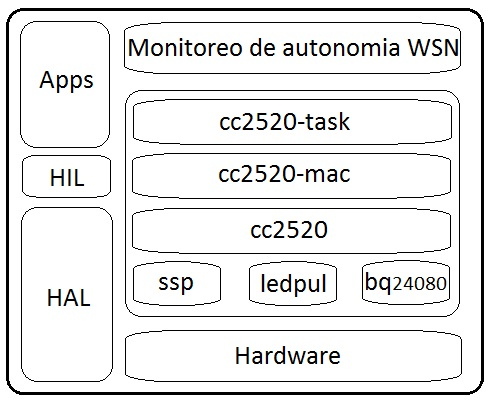
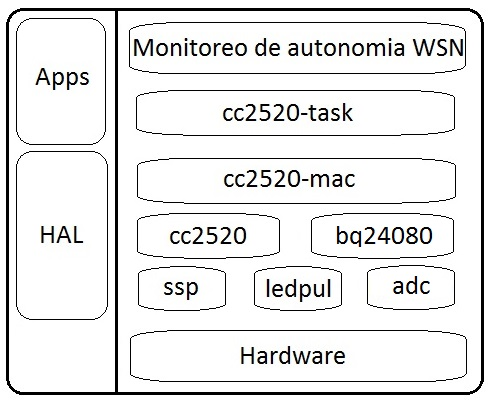
completando el capitulo 3

diff --git a/Chapters/Chapter3.tex b/Chapters/Chapter3.tex
@@ -93,7 +93,7 @@ La curva de la figura \ref{fig:curva}, muestra la corriente máxima de cortocirc
 %	SUBSECTION 2
 %-----------------------------------
 \clearpage
-\subsection{Extensión de Circuito Cargador}
+\subsection{Circuito de Extensión Cargador}
 \label{subsec:extensión}
 Entre las interfaces para el usuario del nodo \textit{Mote LSE} esta el puerto USB, el cual alimenta al circuito de control de carga \textit{bq24080 1-A} con 5V(DC) a través de un conector USB micro-B. Este circuito es el empleado para la carga de la batería de Li-ion de 3.7V y 900mAh.
 
@@ -103,7 +103,7 @@ Es por esto que es necesario emplear una etapa reguladora de voltaje a la salida
 \begin{figure}[h!]
 	\centering
     \includegraphics[width=1\textwidth]{./Figures/circuito.jpg}
-    	\caption{Diseño de extensión de circuito cargador.}
+    	\caption{Diseño de Circuito de Extensión Cargador.}
 	\label{fig:circuito}
 \end{figure}
 
@@ -116,7 +116,16 @@ Un diseño de circuito alternativo, de montaje superficial, puede hacerse emplea
 %-----------------------------------
 \subsection{Diagrama de Conexión}
 \label{subsec:conexión}
-El siguiente diagrama muestra la conexión entre la extensión del circuito cargador y el nodo \textit{Mote LSE}.
+El siguiente diagrama muestra la conexión entre la Circuito de Extensión Cargador 
+(CEC) y el nodo \textit{Mote LSE}, así como la conexión entre el usuario y los nodos remotos. Para el detalle de la conexión del LPC-LINK y el mote, ver el Apéndice \ref{AppendixB}.
+
+\vspace{30px}
+\begin{figure}[h!]
+	\centering
+    \includegraphics[width=0.9\textwidth]{./Figures/conex.png}
+    	\caption{Diagrama de Conexión.}
+	\label{fig:conex}
+\end{figure}
 
 %----------------------------------------------------------------------------------------
 %	SECTION 2
@@ -138,6 +147,13 @@ El modelo propuesto consiste en una arquitectura de capas (Ver figura \ref{fig:c
 	\label{fig:capas}
 \end{figure}
 
+%-----------------------------------
+%	SUBSECTION 1
+%-----------------------------------
+\subsection{Hardware}
+\label{subsec:hardlayer} 
+
+Esta capa contiene la libreria de Cortex ARM, \textit{Cortex Microcontroller Software Interface Standard} \citep{arm} (CMSISv2p00 LPC13xx) :Implementa las funciones de acceso al LPC1343.	
 
 %-----------------------------------
 %	SUBSECTION 1
@@ -149,9 +165,12 @@ La capa de abstracción de hardware (en inglés, Hardware Abstraction Layer o HA
 
 \noindent La HAL esta compuesta por:
 \begin{itemize}
-\item Hardware:
-	\begin{itemize}
-	\item Libreria de Cortex ARM, \textit{Cortex Microcontroller Software Interface Standard} \citep{arm} (CMSISv2p00 LPC13xx) :Implementa las funciones de acceso al LPC1343.	
+\item LPC1343 Drivers:
+\begin{itemize}
+	\item ssp.c : Implementa las interfaz entre el host y el cc2520.
+	\item ssp.h : Contiene todas las macro que controlan la SPI.
+	\item adc.c : Implementa las funciones de inicialización y lectura del ADC.
+	\item adc.h : Contiene las macro que controlan el ADC.
 	\end{itemize}
 \item Board Drivers:
 	\begin{itemize}
@@ -180,19 +199,19 @@ La capa de abstracción de hardware (en inglés, Hardware Abstraction Layer o HA
 %-----------------------------------
 %	SUBSECTION 2
 %-----------------------------------
-\subsection{APP}
-\label{subsec:app}
-La capa APP	o de aplicación esta compuesta por:
+\subsection{APPS}
+\label{subsec:apps}
+La capa APPS	o de aplicaciones esta compuesta por:
 \begin{itemize}
 \item cc2520Task:
 	\begin{itemize}
-	\item cc2520-task.c : Esta función arma una trama de tipo DATA (formada con los parámetros relativos al 802.15.4 de cc2520-mac.c) y la guarda en el buffer de salida de cc2520. Los parámetros de entrada son la dirección de destino y el payload que contiene todos las mediciones y estados de alarmas. y con la funcion ccTx del cc2520-mac, que se fija en el buffer de tx si contiene un frame y lo transmite. Luego en ccTask implementa una FSM con los estados de enviar, recibir y esperar.
-	\item cc2520-task.h : Se incluyeron los estados de operación referentes al transceiver (idle, dataRequest, waitingData, etc)y la función FrameForming para ser utilizada por las capas de aplicación superiores, se define la variable MAXRETRIES que establece el máximo de retransmisiones de una trama y la variables de direccionamiento.
+	\item cc2520-task.c : Contiene la funcion framForming, que arma una trama de tipo DATA (formada con los parámetros relativos al 802.15.4 de cc2520-mac.c) y la guarda en el buffer de salida de cc2520. Los parámetros de entrada son la dirección de destino y el payload. Implementa las funciones de enviar y recibir datos.
+	\item cc2520-task.h : Se incluyeron las funciones de operación referentes al transceiver (idle, sendingData, waitingAck, etc)y la función FrameForming para ser utilizada por las capas de aplicación superiores, se define la variable MAXRETRIES que establece el máximo de retransmisiones de una trama y las variables de direccionamiento.
 	\end{itemize}
 \item monitoreoWsn:	
 	\begin{itemize}
-	\item monitoreoWsn.c : Implementa las operaciones de medición referentes a cada modo de operación.
-	\item monitoreoWsn.h : Define las macros referentes a las mediciones.
+	\item main.c : Implementa las operaciones de medición referentes a cada modo de operación. Hace la lectura del ADC0 y ADC1 para la medición del voltaje de la batería y la temperatura ambiente respectivamente. Con la función frameForming de cc2520-task.c arma la trama con el payload que contiene todos las mediciones y estados de alarmas, y asigna la dirección del coordinador como dirección destino. Luego con la funcion ccTx del cc2520-mac, transmite el frame formado que esta contenido en el buffer de tx.
+	\item include.h : Define el tipo de variables e incluye todos los \textit{header files} que utiliza de las demás capas de abstracción.
 	\end{itemize}
 \end{itemize}
 %----------------------------------------------------------------------------------------
@@ -202,7 +221,7 @@ La capa APP	o de aplicación esta compuesta por:
 \label{sec:firm}
 El software embebido, llamado firmware en adelante, fue implementado en lenguaje de programación C y assembler. Éste implementa todas las funciones descriptas en la sección anterior.
  
-Como punto de partida, se tomó el \textit{workspace} del Microstack 802.15.4 de la clase práctica de la asignatura Protocolos de Comunicación del Ing. Pablo Ridolfi y se realizaron las modificaciones a nivel de HAL para soportar el circuito controlador de carga bq24080. Ver \ref{AppendixC}.
+Como punto de partida, se tomó el \textit{workspace} del Microstack 802.15.4 de la clase práctica de la asignatura Protocolos de Comunicación del Ing. Pablo Ridolfi y se realizaron las modificaciones en la libreria del Hardware y a nivel de HAL, para soportar el circuito controlador de carga bq24080 (Ver tabla \ref{tab:bq}) y el ADC, y así luego implementar las Apps sobre este Microstack.
 
 \begin{table}[ht]
 	\centering
@@ -220,30 +239,53 @@ Como punto de partida, se tomó el \textit{workspace} del Microstack 802.15.4 de
 	\label{tab:bq}
 \end{table}
 
-
-%El \textit{header file} fue incluido en los módulos de la placa (Ver figura \ref{fig:modules}).
-%\begin{figure}[h!]
-%	\centering
-%    \includegraphics[width=1\textwidth]{./Figures/data.jpg}
-%    	\caption{Esquema del formato de la trama de Datos IEEE 802.15.4.}
-%	\label{fig:modules}
-%\end{figure}
-
-
 %-----------------------------------
 %	SUBSECTION 1
 %-----------------------------------
 \subsection{Descripción funcional}
 \label{subsec:func} 
-%Diagrama funcional.
-%Alarmas.
-%Modos.
-%Inter PAN
-%Módulos. 
+%Inter PAN 
 %GPIO configurable al recibir un frame de determinadas características (puede esperar tramas de una serie de direcciones - frame filtering)
-La función main() siempre es llamada cuando el programa se ejecuta por primera vez. De ahí se llama a otras funciones.
+La función main() siempre es llamada cuando el programa se ejecuta por primera vez y de ahí se llama a las otras funciones.
 
-Se implementaron las funciones para reconocer el estado del circuito según el estado de los pines como figura en la tabla \ref{tab:bq}.
+Se define un ciclo de trabajo utilizando un contador junto con el SysTickHandler para iniciar periódicamente la comunicación entre los nodos. Esto permite al diseñador escoger el fragmento de tiempo del ciclo activo para diferentes tipos de WSNs dependiendo del propósito de la aplicación, analizando la relación de compromiso entre la periodicidad del proceso de medición y el consumo de energía implicado.
+
+Se implementó las funcionalidades de topologías de red WSN en cc2520-task. Los datos son transmitidos al nodo coordinador, en una trama de datos 802.15.4, primero emplea la función ccFrameForming, que guarda los valores de las mediciones en el payload y asigna la dirección del coordinador como dirección destino, luego ccFrameTx guarda la trama formada en el buffer de salida.
+
+Para cumplir con el requerimiento de almacenar en una memoria no volátil los datos de alarma, parámetros monitoreados, tiempo total de uso, y cantidad de ciclos de carga/descarga, éstos son almacenados en la memoria Flash del microcontrolador (la memoria SRAM necesita energía para que perduren los datos). 
+
+\noindent La alarmas que reporta son:
+	\begin{itemize}
+	\item TempAmbaja (1) : Reporta temperatura de ambiente baja.
+	\item TempAmbalta (2) : Reporta temperatura de ambiente alta.
+	\item ProyBatrest (3): En Modo Batería, el nodo calcula la autonomía y utiliza un contador junto con el SysTickHandler con el cual va restando el los pasos del reloj y esta alarma se activa cuando llega a un umbral prefijado.
+	\item TensionBat (4): Se activa cuando la tensión de la batería es menor aun valor prefijado.
+	\item NodOffline (5): Se activa en el nodo coordinador cuando no obtiene mensajes de estado de un nodo.
+	\end{itemize}
+	
+Estas alarmas (1 a 4) son interpretadas por el nodo coordinador al hacer la lectura de los primeros cuatro bits del payload (MSB), que en forma de flag, indican con un 1 si la alarma esta activa y con un 0 si esta desactivada. Los valores de temperatura de ambiente baja, alta y la tension de batería baja son configurables con macros en monitoreoWsn.c.
+
+De la misma manera, el sexto bit (MSB) indica el modo de operación, con un 1 si el nodo esta en modo panel solar y un 0 para modo batería.
+
+La siguiente tabla, muestra como esta estructurado el payload de la trama que envía el dispositivo al coordinador.
+
+\begin{table}[ht]
+	\centering
+	\caption{Indicadores de salud del nodo en el payload}
+	\begin{tabular}{@{} l *3c @{}}    \toprule
+		\emph{\textbf{Estado}} & \emph{\textbf{STAT1}} & \emph{\textbf{STAT2}}\\
+		\midrule
+		Precarga en progreso &  ON & ON \\	
+		%Carga rápida en progreso	&  ON & OFF \\
+		Carga completa &  OFF & ON \\
+		Modo sleep &  OFF & OFF \\
+		\bottomrule
+		\hline
+	\end{tabular}
+	\label{tab:STAT}
+\end{table}
+
+Se implementaron las funciones para reconocer el estado del circuito según el estado de los pines como indica la tabla \ref{tab:bq}.
 
 \begin{table}[ht]
 	\centering
@@ -261,35 +303,13 @@ Se implementaron las funciones para reconocer el estado del circuito según el e
 	\label{tab:STAT}
 \end{table}
 
-Se implementó las funcionalidades de topologías de red WSN en cc2520-task y se agregó otra capa de aplicación que hace las mediciones y controla las alarmas en el nodo. Todos estos datos son transmitidos al nodo coordinador, primero emplea la función ccFrameForming, que guarda los valores de las mediciones en el payload y asigna la dirección del coordinador como dirección destino, luego ccFrameTx guarda la trama formada en el buffer de salida.
+VBATmon y la temperatura ambiente son medidas con el conversor AD0 y AD1 respectivamente. Para medir la temperatura se emplea el termistor lineal activo de baja potencia MCP9700 de Microchip \citep{termis} 1\grados C/bit de resolución para un ADC de 8-bit. Para obtener el voltaje de la batería 
+\[Voltaje_{Batería}=2xVBAT_{mon}\]
 
-A su vez se define un ciclo de trabajo, utilizando un contador junto con el SysTickHandler para iniciar periódicamente la comunicación entre los nodos. Esto permite al diseñador escoger el fragmento de tiempo del ciclo activo para diferentes tipos de WSNs dependiendo del propósito de la aplicación, analizando la relación de compromiso entre la periodicidad del proceso de medición y el consumo de energía implicado.
+
+Se optó por no hacer el sensado del consumo del circuito, primero porque no es posible realizar la medición de consumo de todos los componentes por el host, sino que los consumos pueden ser medidos en sus distintas etapas de operación (transmitiendo, recibiendo, modo sleep) con la ayuda de un instrumento externo (Ver capítulo \ref{Chapter4}) y segundo, porque comprometería aun mas la autonomía de un nodo de bajo consumo para transmitir información, si se quiere redundante.
 
 La autonomía del sistema permite que la WSN obtenga un conjunto de mediciones que es independiente del tiempo usado por servidores, pero también se podría implementar una interfaz a un servidor de tiempo para traducir el tiempo de la WSN a un tiempo común a los usuarios.
-
-Para cumplir con el requerimiento de almacenar en una memoria no volátil los datos de alarma, parámetros monitoreados, tiempo total de uso, y cantidad de ciclos de carga/descarga, éstos son almacenados en la memoria Flash del microcontrolador (la memoria SRAM necesita energía para que perduren los datos). 
-
-\noindent La Alarmas que reporta son:
-	\begin{itemize}
-	\item TempAmbaja (1) : Reporta temperatura de ambiente baja.
-	\item TempAmbalta (2) : Reporta temperatura de ambiente alta.
-	\item ProyBatrest (3): En Modo Batería, el nodo calcula la autonomía y utiliza un contador junto con el SysTickHandler con el cual va restando el los pasos del reloj y esta alarma se activa cuando llega a un umbral prefijado.
-	\item TensionBat (4): Se activa cuando la tensión de la batería es menor aun valor prefijado.
-	\item NodOffline (5): Se activa en el nodo coordinador cuando no obtiene mensajes de estado de un nodo.
-	\end{itemize}
-	
-Estas alarmas (1 a 4) son interpretadas por el nodo coordinador al hacer la lectura de los primeros cuatro bits del payload (MSB), que en forma de flag, indican con un 1 si la alarma esta activa y con un 0 si esta desactivada. Los valores de temperatura de ambiente baja, alta y la tension de batería baja son configurables con macros en monitoreoWsn.c.
-
-De la misma manera, el sexto bit (MSB) indica el modo de operación, con un 1 si el nodo esta en modo panel solar y un 0 para modo batería.
-
-VBAT y la temperatura ambiente son medidas con el conversor AD0 y AD1 respectivamente.
-The Voltage Output pin (VOUT) can be directly connected to the ADC input of a microcontroller
-
-Se optó por no hacer tal cosa, consumo del circuito por
-
-
-Para ver una descripción mas detallada del firmware en pseudocódigo y sus principales funciones, ver \ref{AppendixB}.
-
 
 %Como premisa, modo sleep,
 %\textit{wait for interrupt} buena practica
@@ -301,11 +321,11 @@ Para ver una descripción mas detallada del firmware en pseudocódigo y sus prin
 \subsection{Diagramas de Topologías Implementadas}
 \label{subsec:topo} 
 
-Las topologías posibles de implementar son las siguientes \citep{802154}:
+Las topologías posibles de implementar son las siguientes:
 \begin{figure}[h!]
 	\centering
     \includegraphics[width=.8\textwidth]{./Figures/topologia.jpg}
-    	\caption{1) Topología estrella. 2)Topología Peer-to-Peer.}
+    	\caption{1) Topología estrella. 2)Topología Peer-to-Peer.\citep{802154}}
 	\label{fig:topo}
 \end{figure}
 
@@ -314,7 +334,7 @@ En cuanto a la topología de árbol de cluster, no es posible su implementación
 \begin{figure}[h!]
 	\centering
     \includegraphics[width=.8\textwidth]{./Figures/cluster.jpg}
-    	\caption{Topología árbol de cluster.}
+    	\caption{Topología árbol de cluster.\citep{802154}}
 	\label{fig:clust}
 \end{figure}
 

diff --git a/Appendices/AppendixB.tex b/Appendices/AppendixB.tex
@@ -1,11 +1,21 @@
 % Appendix B
 
-\chapter{Pseudocódigo y Principales Funciones} % Main appendix title
+\chapter{Esquemático del Nodo Mote LSE} % Main appendix title
 
-\label{AppendixB} % For referencing this appendix elsewhere, use \ref{AppendixB}
-
-En desarrollo...
+\label{AppendixC} % For referencing this appendix elsewhere, use \ref{AppendixB}
 
 
+\pagebreak[4]
+\global\pdfpageattr\expandafter{\the\pdfpageattr/Rotate 90}
+\includegraphics[width=1.1\paperwidth, angle = 90 ]{./Figures/nodo.PDF}
+\clearpage
+\pagebreak[4]\global\pdfpageattr\expandafter{\the\pdfpageattr/Rotate 0}
 
+%\begin{figure}[htbp]
+%\centering
+%\includegraphics[with=350mm, bb=0 0 1350 743]{./Figures/nodo.PDF}
+%\caption{Esquemático}
+%\label{label for it}
+%\end{figure}
 
+%[!htbp]

diff --git a/memoria.tex b/memoria.tex
@@ -233,7 +233,7 @@ Agradezco a\ldots
 
 \include{Appendices/AppendixA}
 \include{Appendices/AppendixB}
-\include{Appendices/AppendixC}
+%\include{Appendices/AppendixC}
 
 %----------------------------------------------------------------------------------------
 %	BIBLIOGRAPHY
